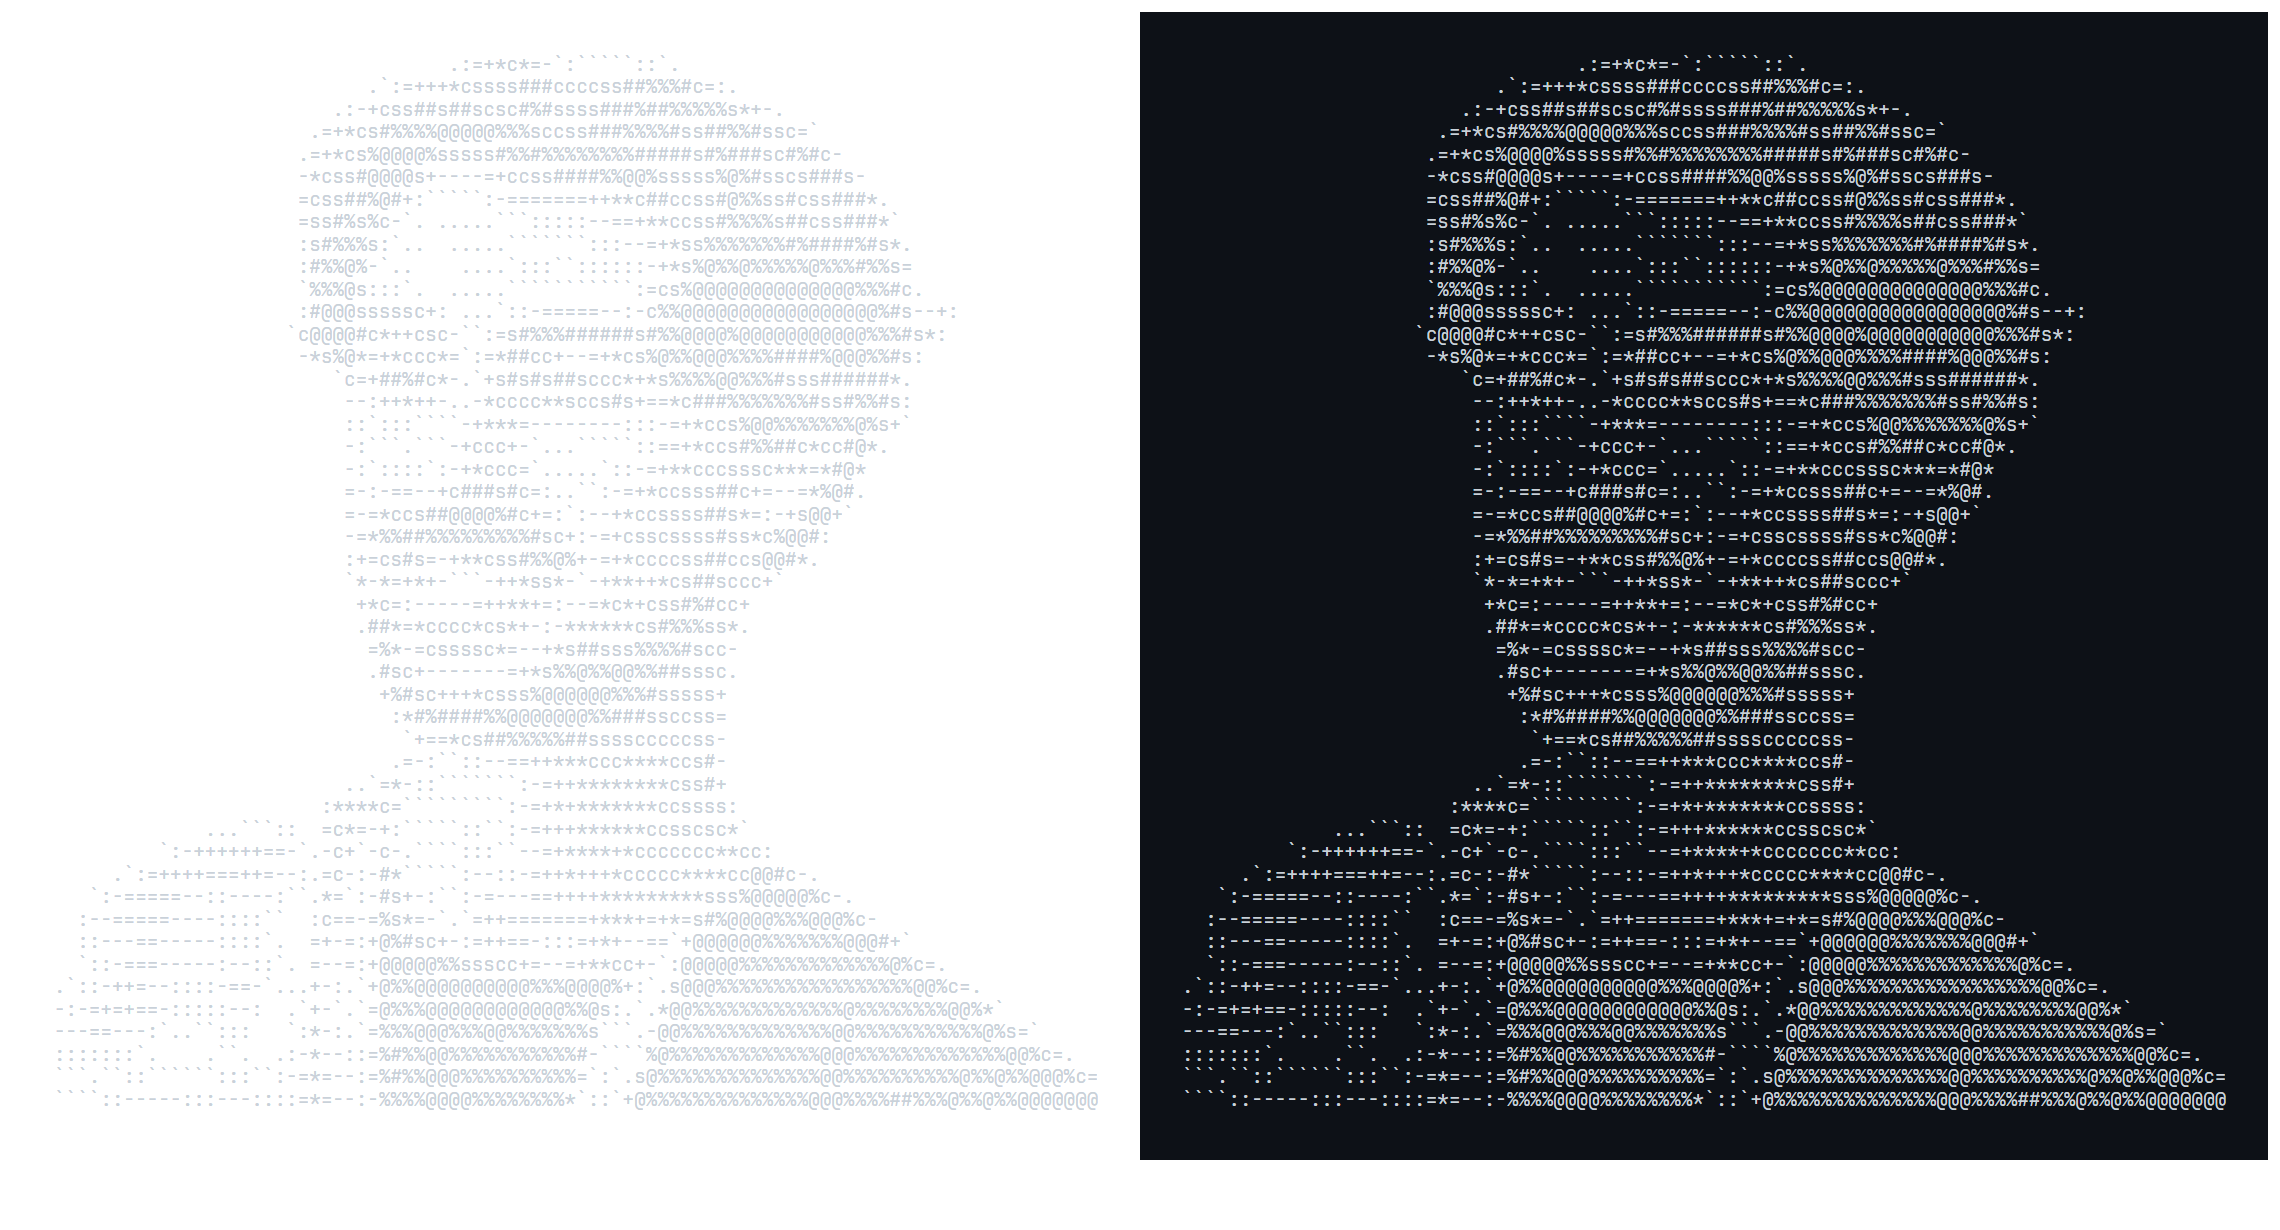
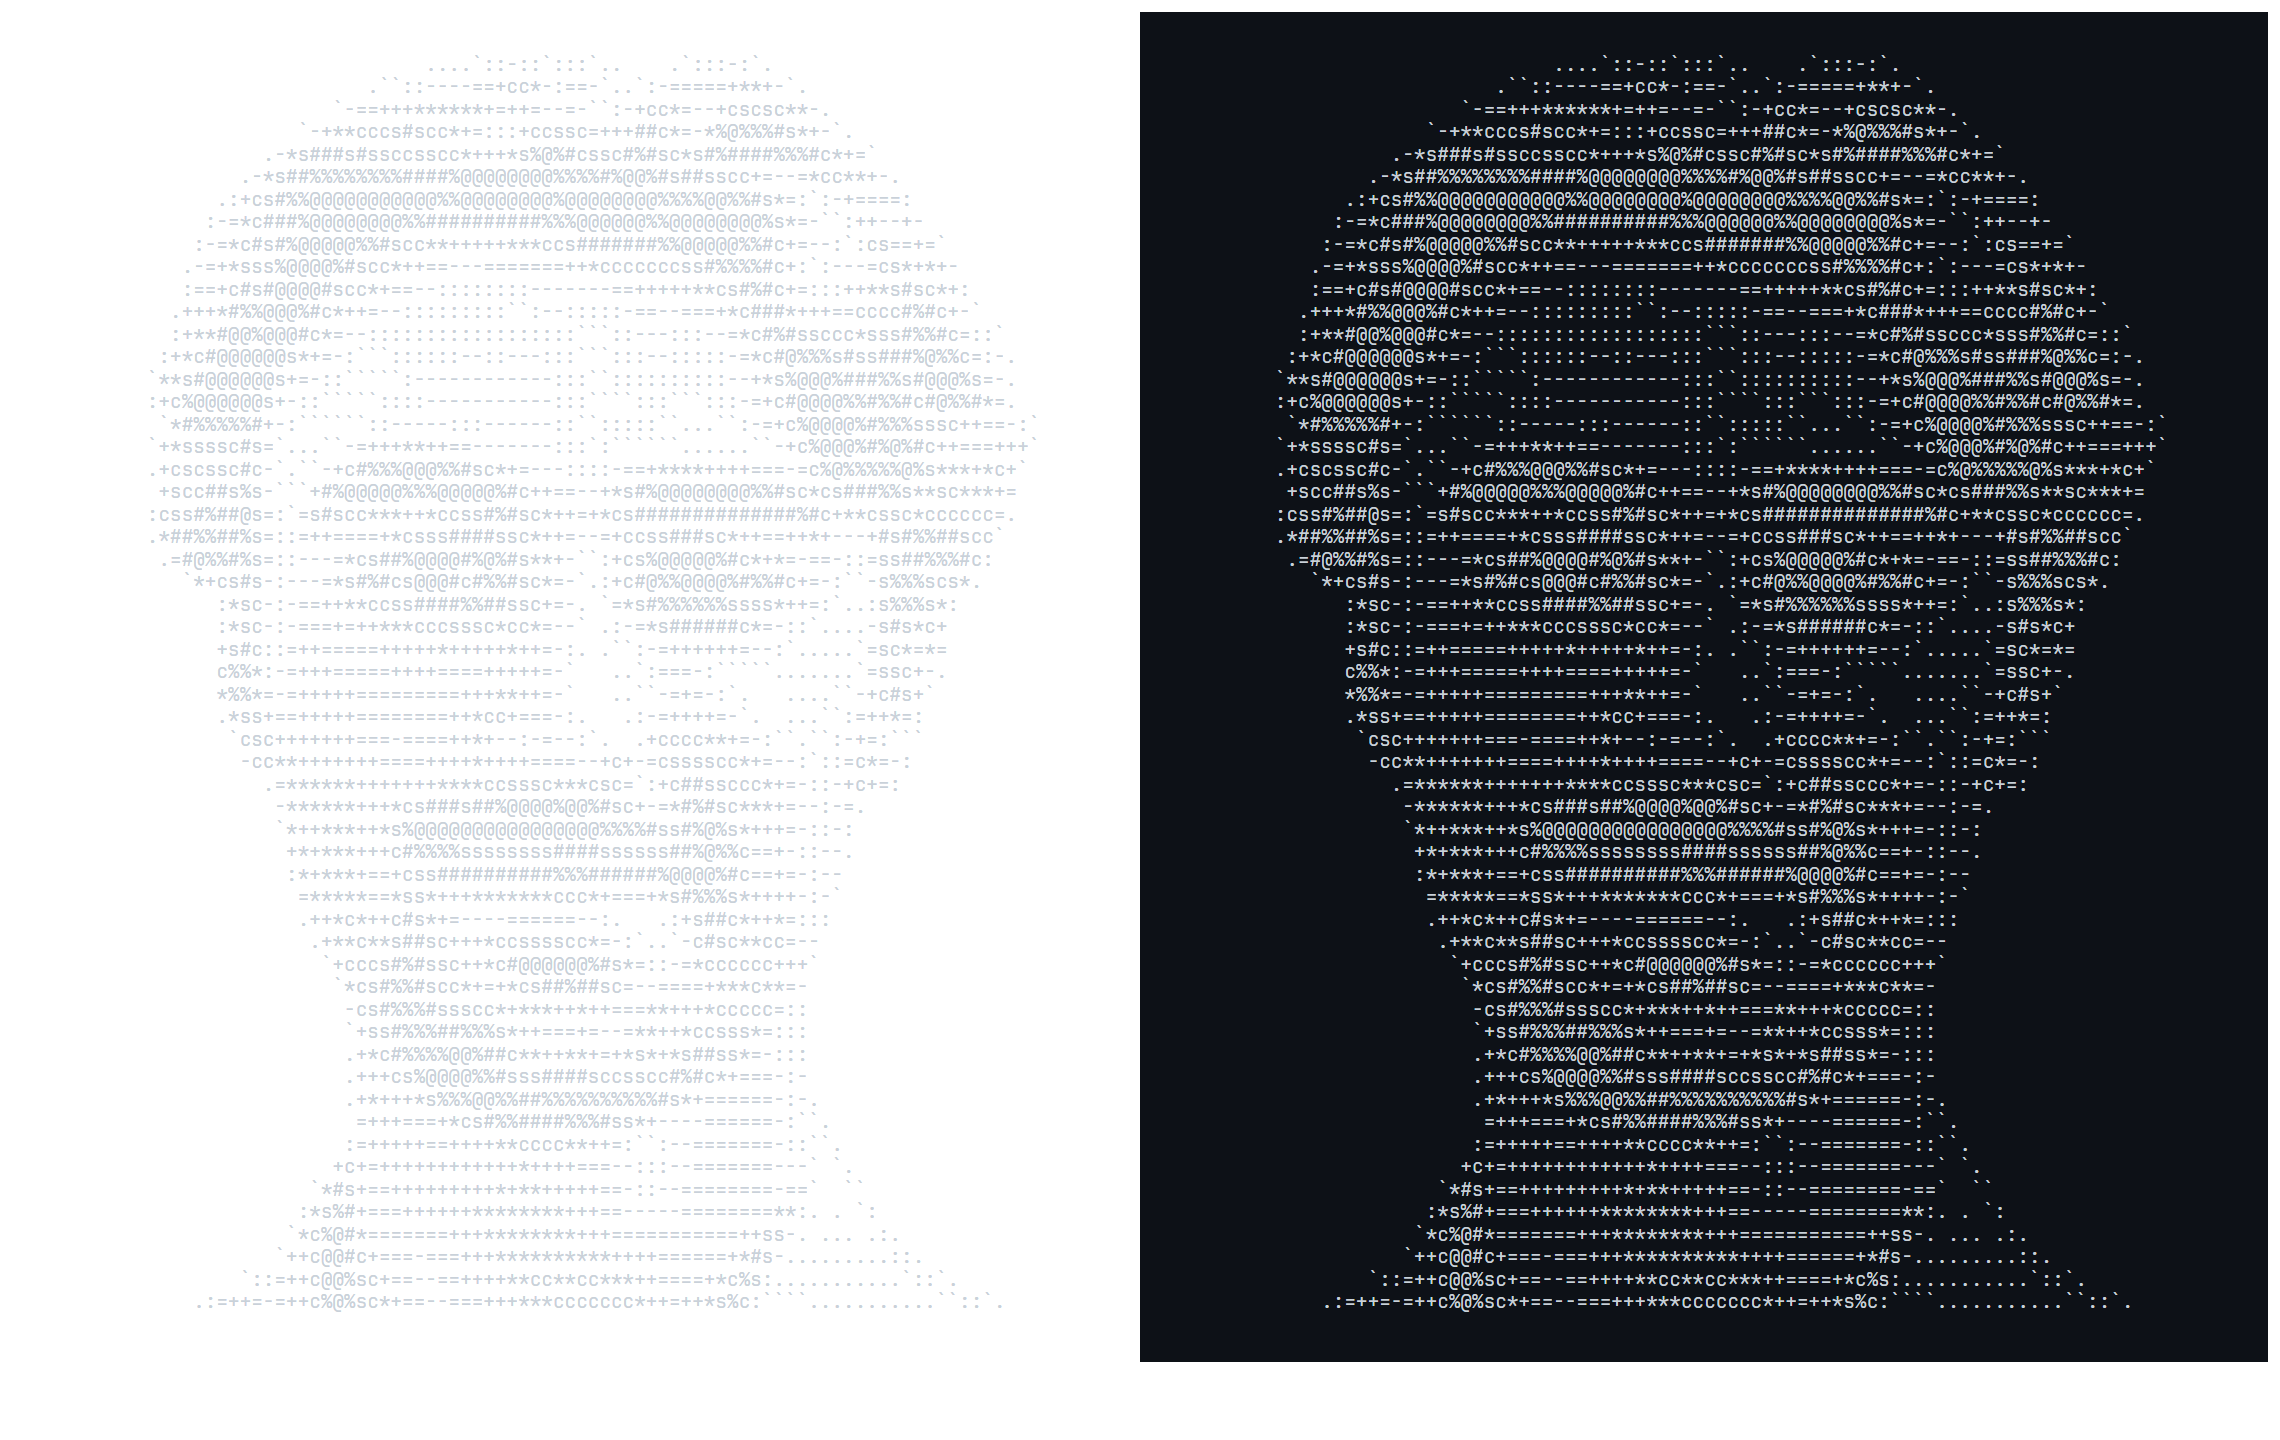
profile: business lead title, drop about-this-page, new portrait

diff --git a/scripts/generate_stats.py b/scripts/generate_stats.py
@@ -46,7 +46,7 @@ DEFAULT_LOGIN = "Devon-Clarkk"                                  # EDIT-ME
 # which glyphs jbmono-head.woff2 must carry, so edit it here and the font
 # subset follows -- no glyph silently falls back to GitHub's sans.
 HEADINGS = ("about", "education", "awards", "stack", "projects",
-            "leadership", "now", "stats", "about this page")
+            "leadership", "now", "stats")
 
 # Two things are pinned for determinism, both learned the hard way:
 #  * the contribution window, to whole UTC days -- otherwise "the past year" is

diff --git a/README.md b/README.md
@@ -30,12 +30,12 @@
 
 > Software Engineering student at Curtin University.<br>
 > Software Engineering Intern at Visagio.<br>
-> Software 2IC at the Perth Aerospace Student Team.
+> Business Lead at the Perth Aerospace Student Team.
 
 I like building reliable systems and shipping real tools with a team. Graduating<br>
-November 2026 (Software Engineering, Curtin University, WAM ~90). Software 2IC at<br>
+November 2026 (Software Engineering, Curtin University, WAM ~90). Business Lead at<br>
 the [Perth Aerospace Student Team](https://github.com/PerthAerospaceStudentTeam),
-leading a 10+ engineer team. Focused on AI<br>
+previously Software 2IC leading a 10+ engineer team. Focused on AI<br>
 engineering: workflow improvements, context engineering, and provably safe,<br>
 reliable systems. Seeking a 2026 graduate software engineering role.
 
@@ -89,10 +89,10 @@ Full-stack platform for anonymous Curtin unit reviews, deployed on Azure with CI
 
 <img src="./hd-leadership.svg" width="620" alt="leadership"/>
 
-**[Perth Aerospace Student Team](https://github.com/PerthAerospaceStudentTeam)** &nbsp;·&nbsp; <samp>Software 2IC</samp><br>
-Oversee 10+ software engineers across 5 concurrent projects; migrated the team<br>
-from standups to full agile; run recruitment, interviewing and onboarding each<br>
-semester.
+**[Perth Aerospace Student Team](https://github.com/PerthAerospaceStudentTeam)** &nbsp;·&nbsp; <samp>Business Lead (previously Software 2IC)</samp><br>
+As Software 2IC, oversaw 10+ software engineers across 5 concurrent projects;<br>
+migrated the team from standups to full agile; ran recruitment, interviewing and<br>
+onboarding each semester.
 
 **IMC Prosperity 4**<br>
 Built shared backtesting tooling so the team could iterate quickly.
@@ -115,24 +115,3 @@ reliable AI systems. Open to 2026 graduate software engineering roles:
 <img src="./year.svg" width="620" alt="The last year, one character per day"/>
 
 </div>
-
-<img src="./hd-about-this-page.svg" width="620" alt="about this page"/>
-
-Every graphic here is generated, not embedded from anyone else's server.<br>
-`ascii.svg` is a photo pushed through a character ramp by<br>
-[`scripts/make_portrait.py`](scripts/make_portrait.py); the stat graphics and<br>
-these section headings are drawn by [a scheduled action](.github/workflows/stats.yml)<br>
-straight from the GitHub GraphQL API, once a day, committing only what changed.
-
-They animate with SMIL inside the SVG, because GitHub strips scripts from<br>
-READMEs, and since nothing loads from a third party, nothing here can<br>
-rate-limit or go dark. The headings are SVGs for the same reason: GitHub also<br>
-strips CSS, so an image is the only way to put this page's own typeface on them.
-
-The typeface is [JetBrains Mono](scripts/fonts), subset to just the characters<br>
-each graphic draws and inlined as base64. That is not only for looks: the<br>
-portrait's grid assumes an advance width of exactly 0.600 em, and a viewer whose<br>
-default monospace is narrower would otherwise see it squeezed.
-
-Language totals cover public repositories only. `year.svg` uses the portrait's<br>
-character ramp: `:` `+` `#` `@`, quiet to loud.

diff --git a/README-SETUP.md b/README-SETUP.md
@@ -49,7 +49,7 @@ The exact command used for the shipped portrait (source at
 pip install pillow numpy opencv-python-headless rembg onnxruntime
 
 python3 scripts/make_portrait.py scripts/portrait-source.jpg \
-        --crop 130,178,905,1070 --curve 1.2 --clahe 2.2
+        --crop 240,40,670,600 --curve 1.25 --clahe 2.5
 python3 scripts/embed_portrait_font.py
 ```
 
